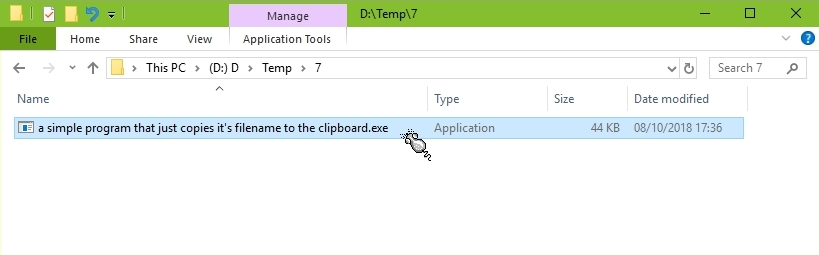
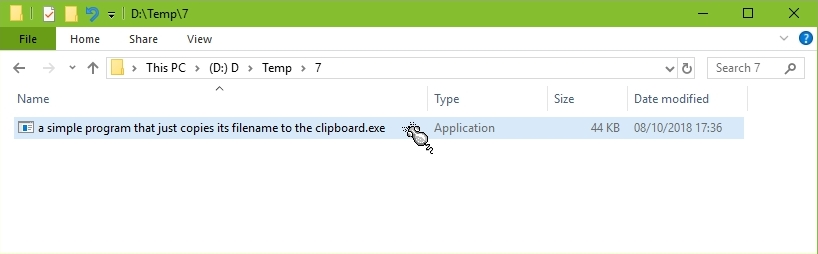
Add files via upload

diff --git a/appnametoclipboard.html b/appnametoclipboard.html
@@ -50,7 +50,6 @@
                 </div>
                 <div class="middle_item_txt">
                     Here it is being clicked, with a long name for demonstration.<br><br>It won't show anything at all, and will immediately close again.<br><br>
-                    <i>Please note the incorrect use of the apostrophe. (Doh!)</i>
                 </div>
             </div>
  
@@ -68,9 +67,10 @@
                     <img src="img/copy_to_clipboard_3_the_result.jpg">
                 </div>
                 <div class="middle_item_txt">
-                    And this is the result, as expected.<br><br> With the spurious apostrophe. There are some characters you can't use in filenames.<br><br>
-                    To use it just change its name, which is usually done by selecting it with the mouse and then pressing F2.<br>
+                    And this is the result, as expected.<br><br>
+                    To use it just change the name of the app, which is usually done by selecting it with the mouse and then pressing F2.<br>
                     Or by right clicking the mouse and selecting 'rename'<br><br>
+                    There are some characters you can't use in filenames, Windows will tell you.<br><br>
                     Use it to store things you type often.<br><br>
                     Probably should not uee it for passwords though.
                 </div>
